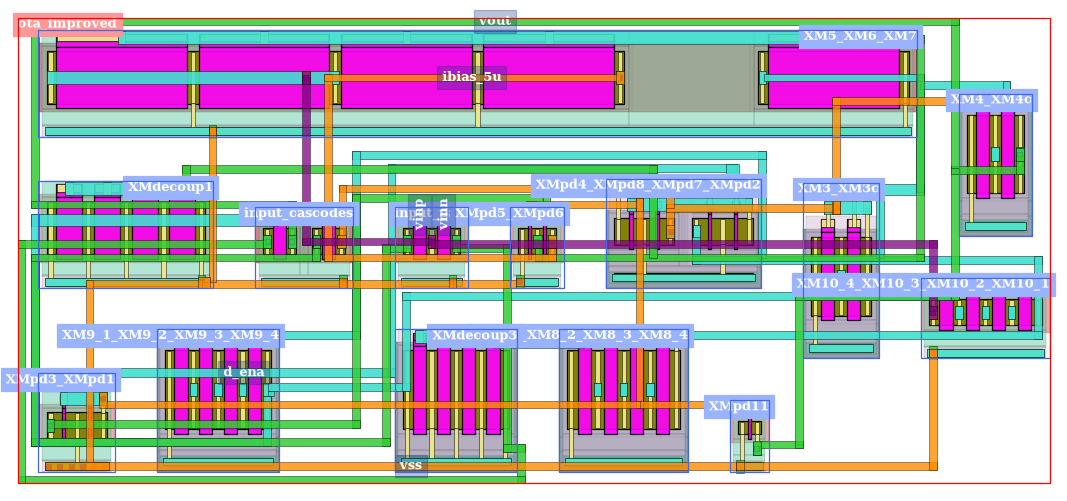
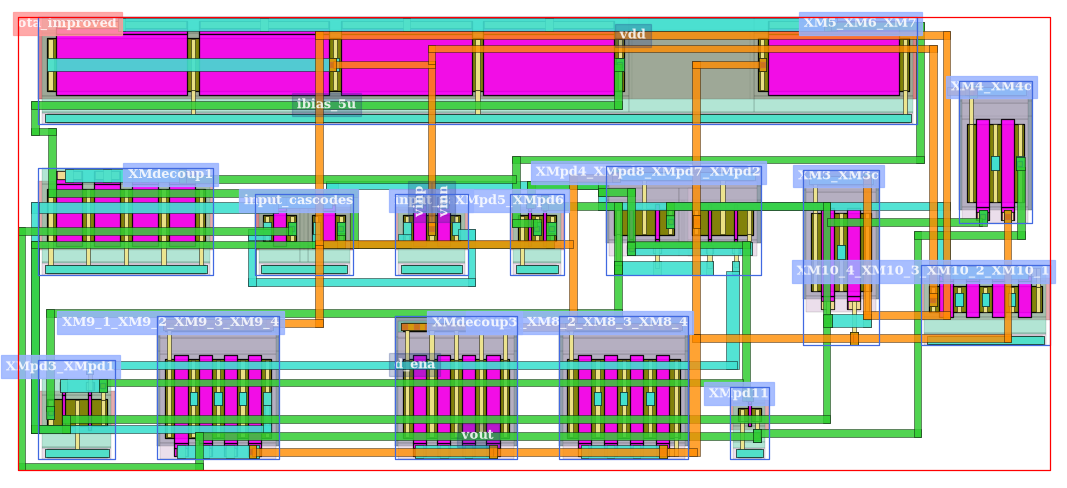
update 2.7: follow aicl_core 0785123
- gate_poly.location: per-type defaults (PMOS bottom, NMOS top), sides and per-device mappings
- Region spacing between cells (process configuration and placer options)
- MIM top-metal comb keys, repeated implant fill, resistor substrate netlisting
- Regenerated layout images affected by the new gate side

Claude-Session: https://claude.ai/code/session_01A2tZL7KsyVhwqdwPjtYj4u

diff --git a/docs/setup/process/constraints.md b/docs/setup/process/constraints.md
@@ -135,6 +135,15 @@ global:
   abut:
     base: {gate_poly: [[0.0, 0.0, 0.0]]}
     extension: {}
+  region_spacing:                      # between the layer regions of two different cells (placers)
+    base:                              # cells on different nets
+      oxide_diffusion: [[0.0, 0.0, 0.21]]
+      n_well: [[0.0, 0.0, 1.8]]
+      n_well|oxide_diffusion: [[0.0, 0.0, 0.31]]
+      ...
+    extension: {}
+    same_net:                          # regions on one net: they may also touch and merge
+      n_well: [[0.0, 0.0, 0.62]]
 local: {}
 ```
 
@@ -144,10 +153,11 @@ local: {}
 | `global.bulk.width` | The width of each layer of a body tap. |
 | `global.transistor` | `extend_implant_layer`, the `gate_poly` strap (`connector_height`, `extension_height`), and `latch_up.max_tie_distance`. |
 | `global.poly_resistor.bulk`, `global.mim_capacitor.bulk` | Where the body tap of a three-terminal resistor or capacitor goes: `side` (`auto`, `vertical` or `horizontal`) and `offset`, its gap to the device in µm. A cell can choose another side with `settings['bulk_tap']`. |
-| `global.mim_capacitor` | The smallest and largest via array on each plate (`min_/max_number_of_via_rows`, `..._columns`). `null` or `0` as a minimum means 1, and `null`, `0` or `.inf` as a maximum means as many as fit. `extend_bottom_cap_plates: true` joins the bottom plates of a unit matrix into one plate, in a process whose two plates are on different dielectric layers. `flush_connecting_wire: true` draws the wire that joins a row of plates as high as the plates, when the step it would leave at their edges is smaller than the plate metal's same-net gap (for a rule deck that flags such a step). Both are `false` by default, and the shipped templates leave them off. |
+| `global.mim_capacitor` | The smallest and largest via array on each plate (`min_/max_number_of_via_rows`, `..._columns`). `null` or `0` as a minimum means 1, and `null`, `0` or `.inf` as a maximum means as many as fit. `extend_bottom_cap_plates: true` joins the bottom plates of a unit matrix into one plate, in a process whose two plates are on different dielectric layers. `flush_connecting_wire: true` draws the wire that joins a row of plates as high as the plates, when the step it would leave at their edges is smaller than the plate metal's same-net gap (for a rule deck that flags such a step). Both are `false` by default, and the shipped templates leave them off. In a process whose MIM has a single cap metal, the top plate is contacted by a comb of metal strips: `min_number_of_top_metal_combs` and `max_number_of_top_metal_combs` limit how many strips cross it (`null`: at least one, as many as fit), and `top_metal_comb_distribution` spreads them with the outer strips at the plate edges (`edges`, the default) or with equal gaps (`even`). A cell can override all three in its `settings`. `ihpSG13G2` has two cap metals, so these keys have no effect there. |
 | `global.spacing` | Spacing rules between the layers the devices draw. A key is one layer (the spacing between its own shapes) or a pair `a|b` (in either order). `base` holds the base layers of the primitives, `extension` the pairs that involve an extension layer. Each value is a table `[[width, parallel run, spacing], ...]`: of the rows whose width and run the two shapes reach, the largest spacing applies. A layer or pair without an entry has no rule. |
-| `global.min_width` | The least width of a layer, for example of an implant. When two cells are exported next to each other and their implants end closer than `spacing`, the gap is filled, and each fill is at least `min_width` long. |
+| `global.min_width` | The least width of a layer, for example of an implant. When two cells are exported next to each other and their implants end closer than `spacing`, the gap is filled, and each fill is at least `min_width` long. The fills count as implant too: the check is repeated over the shapes and the fills so far until it finds no new gap, so a small pocket left between two fills is filled as well. |
 | `global.abut` | The abutment rule of a layer (for gate poly, the former `min_poly_abut_extension`), as a table like `spacing`. |
+| `global.region_spacing` | The spacing between the layer regions of two **different** cells, used by the `REFERENCE_PLACER` (see [Region spacing](#region-spacing) below). Optional. |
 | `local` | Values for devices of a certain size only (see below). |
 
 The three keys `min_poly_spacing`, `min_distance_poly_to_implant` and `min_poly_abut_extension` of older templates are now `global.spacing.base.gate_poly`, `global.spacing.base.gate_poly|<implant>` and `global.abut.base.gate_poly`.
@@ -175,6 +185,44 @@ A process can set more options under `global.transistor`. The shipped templates 
 | `gate_poly.contact` | `cap` | How a gate is contacted. `cap` draws a poly cap wide enough for a contact on every side. `inline` draws no cap: the gate runs straight on past the diffusion, and the contact sits on it, enclosed by `gate_poly.contact_end_enclosure` at its two ends. |
 | `source_drain_via_rows` | `shared` | `shared` puts the source and drain via landings on one row. `separate` gives the sources and the drains rows of their own, so the landings only have to clear the neighbouring finger's metal. |
 | `poly_contact_cut` | not set | A layer drawn around every contact on poly, with its `enclosure` (SKY130's `npc`). |
+
+### Region spacing
+
+A cell's *layer region* is the box around all the shapes it draws on one layer (its N-well, its diffusion, its gate poly, ...). `cell.get_layer_regions()` returns them as `{layer: LayerRegion}`, where each `LayerRegion` has a `boundbox` and a `width` (the narrow side of the layer's widest shape). An M-Cell's regions are those of its sub-cells and of its own wiring. The regions are measured where the shapes are now, so they follow every move, rotation and flip.
+
+`global.region_spacing` says how far apart the regions of two different cells must be. When the reference placer puts one cell next to another, it does not let their bounding boxes simply touch: it looks at the regions that face each other and keeps the largest gap that their rules ask for, less how far each region already lies inside its cell's box. Two PMOS cells next to each other, for example, need their N-wells 1.8 µm apart in `ihpSG13G2` when the wells are on different nets.
+
+| Key | Meaning |
+|:--|:--|
+| `base`, `extension` | The rules between cells on different nets, in the `spacing` table format: one layer (between its own regions) or a pair `a|b`. `base` holds base layers, `extension` pairs with an extension layer. |
+| `same_net` | The rules between two regions on one net. A layer listed here is *net-aware*: two of its regions on one net (the N-wells of two PMOS cells on the same supply) may also touch, and then merge into one region. |
+| `merge` | Layers whose regions may touch whatever their nets, because touching shapes of the layer are one shape (an implant). A gap between them still keeps the rule. |
+
+A metal that has no rule here takes its spacing table from `connectivity.yaml`. A pair with no rule needs no gap. The section is optional; without it, only the metals keep the cells apart, and the reference placer logs a warning. The `ihpSG13G2` and `sky130A` templates ship values from their rule decks: diffusion, gate poly, contact, N-well and deep N-well spacings (for example `NW.b1`, 1.8 µm, between N-wells on different nets in `ihpSG13G2`, and `NW.b`, 0.62 µm, on one net).
+
+The process context answers the rule for a pair with `region_spacing(layer_a, layer_b, width=0.0, parallel_run=0.0, same_net=False)`:
+
+```python
+# The copilot and the process context manager from the core package
+from aicl_core.bin.core.copilot import AiclCopilot
+from aicl_core.bin.core.contextmanager import ContextManager
+
+# Start the copilot for the process we lay out in
+copilot = AiclCopilot(process_name='ihpSG13G2')
+context = ContextManager.current
+
+# N-well to N-well of another cell: on different nets, and on one net
+print('n_well, different nets:', context.region_spacing('n_well', 'n_well'), 'um')
+print('n_well, same net:', context.region_spacing('n_well', 'n_well', same_net=True), 'um')
+
+# N-well of one cell to the diffusion of another
+print('n_well | oxide_diffusion:', context.region_spacing('n_well', 'oxide_diffusion'), 'um')
+
+# A metal without a region rule takes its connectivity spacing
+print('metal2:', context.region_spacing('metal2', 'metal2'), 'um')
+```
+
+How the placer uses the rules, and how to turn them off, is described in [Placement]({% link docs/tutorials/modules/place/index.md %}#region-spacing).
 
 ## connectivity.yaml
 

diff --git a/docs/setup/template/parameters.md b/docs/setup/template/parameters.md
@@ -128,9 +128,93 @@ Each entry of `devices`:
 | `gate_poly` | dict | see below | Gate connection. |
 | `power` | dict | see below | The power (bulk) wire. |
 
-`gate_poly` keys: `connect_gate_with_poly` (bool, join the gates in poly), `contacts_per_unit_gate_width` and `contacts_per_unit_finger_width` (int), `split_gate_poly_metal` (bool), `location` (`TRANSISTOR_GATE_CONNECTOR.top`, `.bottom` or `.both`), and `device_sides` (`{device_name: TRANSISTOR_GATE_CONNECTOR.top or .bottom}`: each device's gates are contacted on its own side only, so the row is mirrored top to bottom; a gate net may then join devices of one side only).
+`gate_poly` keys: `connect_gate_with_poly` (bool, join the gates in poly), `contacts_per_unit_gate_width` and `contacts_per_unit_finger_width` (int), `split_gate_poly_metal` (bool), `location` (the side of the gate contacts, see [Gate side](#gate-side)), and `device_sides` (`{device_name: TRANSISTOR_GATE_CONNECTOR.top or .bottom}`: each device's gates are contacted on its own side only, so the row is mirrored top to bottom; a gate net may then join devices of one side only).
 
 `power` keys: `stack_metals` (bool), `base_wire` (`layer`, `width`, `offset`, `number_of_via_rows`, `number_of_via_cols`), `base_to_top_wire` (`layer`, `number_of_vias`), and `top_wire` (`layer`, `width`, `track` as a `TOP_WIRE_TRACK`, `offset`).
+
+### Gate side (`gate_poly.location`)
+{: #gate-side }
+
+`settings['gate_poly']['location']` says on which side of the row the gates are contacted. It takes one of three forms:
+
+| Value | Meaning |
+|:--|:--|
+| not set, or `None` | The default: a PMOS has its gates at the **bottom**, an NMOS at the **top**. The two are mirror images, so in an inverter (PMOS above NMOS) the gates face each other and each cell's power rail faces its supply. |
+| a side | `TRANSISTOR_GATE_CONNECTOR.top`, `.bottom` or `.both`, or its name as a string: `'top'`, `'bottom'`, `'both'`. Strings are what a YAML defaults file can hold. |
+| a mapping | One side per kind of device: `{<class key>: side, 'pmos': side, 'nmos': side, 'default': side}`. A cell looks up its class key first (for example `'standard_pmos'` or `'low_threshold_nmos'`; the keys are listed in the process's `devices.yaml`), then its type (`'pmos'` or `'nmos'`), then `'default'`. When none of them is given, the cell takes the built-in default above. |
+
+Wires that do not name a `track` follow the gate side. With the gates at the bottom, a source/drain wire takes the upper half of the source/drain region (`SD_CENTER_UP`) and the power rail goes to the top; with the gates at the top, a source/drain wire takes `SD_CENTER_DOWN` and the rail goes to the bottom.
+
+The value can be set in each of the default layers (see [Defaults for every cell]({% link docs/tutorials/scells/configure/index.md %}#defaults-for-every-cell)): `cell_parameter_globals.yaml` (where it is `location: null`), the process's `cell_parameter_locals.yaml`, `SCellConfig` in your script, or the cell's own `settings`. The cell's own value wins. A misspelt side (`'up'`) or a mapping key that is neither a class key of the process nor `pmos`, `nmos` or `default` (`'pmoss'`) is refused with a `ParameterError`, so a typo never falls back to the default without notice.
+
+The example builds the same transistor as a PMOS and as an NMOS, first with the defaults, then with one side for all, then with a mapping:
+
+```python
+# The copilot and the transistor S-Cell engine from the core package
+from aicl_core.bin.core.copilot import AiclCopilot
+from aicl_core.bin.core.engines.transistor import TSCell
+
+# The user overrides of the S-Cell defaults
+from aicl_core.bin.config.global_config import SCellConfig
+
+# Option lists (enums) from the core package
+from aicl_core.bin.utilities.enums.deviceenums import TRANSISTOR_CLASS
+from aicl_core.bin.utilities.enums.terminals import TRANSISTOR_PIN_TYPE
+
+# Start the copilot for the process we lay out in
+copilot = AiclCopilot(process_name='ihpSG13G2')
+
+# One device M1 with 2 fingers; the parameters say nothing about the gate side
+parameters = {
+    'specifications': {'finger_width': 1.0, 'length': 0.5,
+                       'devices': [{'names': ['M1'], 'number_of_fingers': [2]}]},
+    'terminals': [{'name': 'g', 'pins': [['M1', TRANSISTOR_PIN_TYPE.GATE]]},
+                  {'name': 'd', 'pins': [['M1', TRANSISTOR_PIN_TYPE.DRAIN]]}],
+}
+
+
+def gate_side(device_class):
+    """Build a cell of this class and return the name of the gate side it was given."""
+    cell = TSCell(name='probe', parameters=parameters, device_class=device_class)
+    return cell.get_parameters()['settings']['gate_poly']['location'].name
+
+
+# 1. Nothing set: PMOS gates at the bottom, NMOS gates at the top
+print('default  PMOS:', gate_side(TRANSISTOR_CLASS.STANDARD_PMOS), '| NMOS:', gate_side(TRANSISTOR_CLASS.STANDARD_NMOS))
+
+# 2. One side for every transistor built from now on
+SCellConfig.set('tscell', 'settings.gate_poly.location', 'top')
+print('top      PMOS:', gate_side(TRANSISTOR_CLASS.STANDARD_PMOS), '| NMOS:', gate_side(TRANSISTOR_CLASS.STANDARD_NMOS))
+
+# 3. A mapping: every PMOS on top, any other transistor ('default') on both sides
+SCellConfig.set('tscell', 'settings.gate_poly.location', {'pmos': 'top', 'default': 'both'})
+print('mapping  PMOS:', gate_side(TRANSISTOR_CLASS.STANDARD_PMOS), '| NMOS:', gate_side(TRANSISTOR_CLASS.STANDARD_NMOS))
+
+# Drop the override again
+SCellConfig.reset()
+```
+
+It prints:
+
+```
+default  PMOS: bottom | NMOS: top
+top      PMOS: top | NMOS: top
+mapping  PMOS: top | NMOS: both
+```
+
+The same mapping in a defaults file (`cell_parameter_locals.yaml`) reads:
+
+```yaml
+GLOBAL_CONFIG:
+  SCELL:
+    tscell:
+      settings:
+        gate_poly:
+          location: {pmos: top, default: both}
+```
+
+{: .note }
+Earlier releases put the gates of every transistor at the top unless a cell said otherwise, and the netlist flow did the same. A PMOS now has its gates at the bottom by default, also in a netlist-built cell. To get the old layout back, set `location` to `'top'` (in `SCellConfig` or a defaults file) or give the cell `TRANSISTOR_GATE_CONNECTOR.top`.
 
 ### terminals
 
@@ -165,6 +249,7 @@ from aicl_core.bin.utilities.enums.terminals import TRANSISTOR_PIN_TYPE, BASE_WI
 copilot = AiclCopilot(process_name='ihpSG13G2')
 
 # A PMOS pair sharing its source, with a guard ring, end dummies and the gate contact on top
+# (a PMOS has it at the bottom by default)
 parameters = {
     'specifications': {
         'finger_width': 1.5,

diff --git a/docs/tutorials/modules/place/index.md b/docs/tutorials/modules/place/index.md
@@ -173,7 +173,87 @@ copilot.preview_layout(inverter)
 
 ![Inverter placed by the reference placer: the PMOS abuts the top of the NMOS, centred, 0.5 µm above it]({{site.baseurl}}/assets/images/mcell_inverter_reference_place_lay.png){: width="260"}
 
-`place_cell` returns a `PlaceResult` with the cell name and the run time. The reference placer has no options.
+`place_cell` returns a `PlaceResult` with the cell name and the run time.
+
+### Region spacing
+
+The reference placer keeps the process's *region spacing* between cells (see [Region spacing]({% link docs/setup/process/constraints.md %}#region-spacing)). An abutment does not end where the two bounding boxes touch, but where the layers that face each other are far enough apart: for example the N-wells of two PMOS cells, or an N-well and the diffusion of an NMOS. A cell slid off another one keeps the same gap. The `offset` of an entry still counts: the placer only adds what the rules need beyond it. In the inverter above, the PMOS still sits 0.5 µm above the NMOS, because that offset already covers the rules.
+
+Two options change this. Pass them with `options=` (or `placer_options=` in `place_and_route_cell`):
+
+| Option | Default | Meaning |
+|:--|:--|:--|
+| `region_spacing` | `True` | Keep the region spacing. `False` abuts the cells box to box, as in earlier releases. |
+| `well_nets` | `'netlist'` | How wells on one net (the cells' bulk nets) are spaced. `'netlist'`: they may touch and merge, or keep the same-net spacing; this is right for a layout that will be routed, since routing ties the wells. `'unrouted'`: they may touch and merge, else they keep the different-net spacing, for a placement you check with DRC before routing (DRC sees separate wells as separate nets). |
+
+The next example places two PMOS cells side by side, once with their bulks on different nets and once on one net:
+
+```python
+# The copilot and the cell engines (M-Cell and transistor S-Cell) from the core package
+from aicl_core.bin.core.copilot import AiclCopilot
+from aicl_core.bin.core.engines.mcell import MCell
+from aicl_core.bin.core.engines.transistor import TSCell
+
+# Option lists (enums) from the core package
+from aicl_core.bin.utilities.enums.deviceenums import TRANSISTOR_CLASS
+from aicl_core.bin.utilities.enums.primitives import CELL_ABUT_SIDE, CELL_ABUT_ALIGN
+from aicl_core.bin.utilities.enums.terminals import TRANSISTOR_PIN_TYPE
+
+# Coordinates (x, y) in um, and the helper that runs placers and routers
+from aicl_core.bin.utilities.geometryutils import Coord
+from aicl_core.bin.utilities.helpers.place_and_route import PlaceAndRouteManager
+
+# Start the copilot for the process we lay out in
+copilot = AiclCopilot(process_name='ihpSG13G2')
+
+
+def place_pmos_pair(bulk_nets, region_spacing=True):
+    """Place two PMOS cells p1 and p2 side by side and return the gap between their boxes."""
+    cells = []
+    for name in ('p1', 'p2'):
+        parameters = {
+            'specifications': {'finger_width': 2.0, 'length': 0.5,
+                               'devices': [{'names': ['M1'], 'number_of_fingers': [2]}]},
+            'terminals': [{'name': 'g', 'pins': [['M1', TRANSISTOR_PIN_TYPE.GATE]]},
+                          {'name': 'd', 'pins': [['M1', TRANSISTOR_PIN_TYPE.DRAIN]]},
+                          {'name': 'vdd', 'pins': [['M1', TRANSISTOR_PIN_TYPE.SOURCE, TRANSISTOR_PIN_TYPE.BULK]]}],
+        }
+        cells.append(TSCell(name=name, parameters=parameters, device_class=TRANSISTOR_CLASS.STANDARD_PMOS))
+
+    pair = MCell(name='pmos_pair')
+    pair.add_cells(cells)
+
+    # bulk_nets gives the module net of each cell's vdd terminal (and so of its N-well)
+    nets = {}
+    for cell_name, net in zip(('p1', 'p2'), bulk_nets):
+        nets.setdefault(net, {})[cell_name] = {'terminal': 'vdd'}
+    pair.set_terminal_parameters([{'name': net, 'components': components} for net, components in nets.items()])
+
+    # p1 at the origin, p2 against its right side, no offset
+    placer_constraints = [
+        {'cell_name': 'p1', 'use_reference': False, 'position': Coord(0, 0), 'offset': Coord(0, 0)},
+        {'cell_name': 'p2', 'use_reference': True, 'reference_cell_name': 'p1',
+         'reference_abut_side': CELL_ABUT_SIDE.right, 'reference_abut_align': CELL_ABUT_ALIGN.middle,
+         'position': Coord(0, 0), 'offset': Coord(0, 0)},
+    ]
+    PlaceAndRouteManager.place_cell(pair, 'REFERENCE_PLACER', constraints=placer_constraints,
+                                    options={'region_spacing': region_spacing})
+    return round(cells[1].get_boundbox().start_x_coord - cells[0].get_boundbox().end_x_coord, 3)
+
+
+# Wells on two different supplies: they must be 1.8 um apart (NW.b1)
+print('different nets:', place_pmos_pair(['vdd_a', 'vdd_b']), 'um')
+
+# Wells on one supply: they may touch and merge into one well
+print('one net:', place_pmos_pair(['vdd', 'vdd']), 'um')
+
+# Region spacing turned off: the boxes touch whatever the nets
+print('option off:', place_pmos_pair(['vdd_a', 'vdd_b'], region_spacing=False), 'um')
+```
+
+It prints `different nets: 1.8 um`, `one net: 0.0 um` and `option off: 0.0 um`.
+
+`CUSTOM_RPS_PLACER` does not read the region spacing; it keeps the cells apart by its `padding` only.
 
 ## Custom RPS placer
 

diff --git a/docs/api/pnr.md b/docs/api/pnr.md
@@ -24,7 +24,7 @@ Placers and routers are registered by name. The names are exact strings.
 | Name | Class | Kind | Constraints |
 |:--|:--|:--|:--|
 | `CUSTOM_RPS_PLACER` | `CustomRPS` | Placer. It packs rectangles with a sequence pair, optimised by simulated annealing. This is the default placer. | `{'padding': float | dict | list | tuple, 'width_limit': float, 'height_limit': float}`. Sub-cells inherit them. |
-| `REFERENCE_PLACER` | `ReferencePlacer` | Placer. It puts each cell at a fixed position, or against an already-placed reference cell, in the order given. | A list of entries `{'cell_name', 'position': Coord, 'offset': Coord, 'use_reference': bool, 'reference_cell_name': str, 'reference_abut_side': CELL_ABUT_SIDE, 'reference_abut_align': CELL_ABUT_ALIGN}`, or `{cell_name: {'placer_constraints': [...], 'sub_modules': {...}}}` for a hierarchy. `reference_cell_name` may join several cells with `|`. Cells that no entry names are placed at the origin. |
+| `REFERENCE_PLACER` | `ReferencePlacer` | Placer. It puts each cell at a fixed position, or against an already-placed reference cell, in the order given. | A list of entries `{'cell_name', 'position': Coord, 'offset': Coord, 'use_reference': bool, 'reference_cell_name': str, 'reference_abut_side': CELL_ABUT_SIDE, 'reference_abut_align': CELL_ABUT_ALIGN}`, or `{cell_name: {'placer_constraints': [...], 'sub_modules': {...}}}` for a hierarchy. `reference_cell_name` may join several cells with `|`. Cells that no entry names are placed at the origin. An abutment keeps the process's region spacing (`configuration.yaml` `global.region_spacing`). |
 | `RMST_ROUTER` | `RectilinearMstMCellRouter` | Router. A rectilinear minimum spanning tree router. This is the default router. | `{'top_wire': {'min_width': float, 'min_number_of_vias': int, 'number_of_vias': int}}` |
 | `ALIGN_ROUTER` | `AlignMCellRouter` | Router. A port of ALIGN's router: tile-based global routing, then A* track routing per net. Symmetry is soft. | `{'min_width', 'min_layer', 'max_layer', 'nets': {name: {'min_layer', 'max_layer', 'multi_connection', 'do_not_route'}}, 'symmetry': {'net_pairs', 'axis'}, 'sub_cells': {name: {...}}}` |
 | `MAGICAL_ROUTER` | `MagicalMCellRouter` | Router. A port of MAGICAL's anaroute: grid A* with negotiated rip-up and reroute. Symmetry is mirrored. | `{'min_width', 'power_min_width', 'nets': {name: {'min_width', 'cuts': [rows, cols]}}, 'symmetry': {'net_pairs', 'self_nets', 'axis'}, 'sub_cells': {name: {...}}}` |
@@ -34,7 +34,7 @@ Placers and routers are registered by name. The names are exact strings.
 | Engine | Options (default) |
 |:--|:--|
 | `CUSTOM_RPS_PLACER` | `simanneal_minutes` (0.1), `simanneal_steps` (100), `show_progress` (False), `seed` (111), `place` (True; with False it only solves), `visualize` (False) |
-| `REFERENCE_PLACER` | none |
+| `REFERENCE_PLACER` | `region_spacing` (True: keep the process's region spacing between the cells' facing layer regions, see [Region spacing]({% link docs/tutorials/modules/place/index.md %}#region-spacing)), `well_nets` (`'netlist'`, or `'unrouted'`) |
 | `RMST_ROUTER` | none |
 | `ALIGN_ROUTER` | `tile_size` (0 = automatic), `candidates` (5), `via_cost` (0.36), `sym_factor` (8.0), `ilp_node_limit` (200000), `max_explore` (0 = unlimited) |
 | `MAGICAL_ROUTER` | `grid_step` (0 = the Metal1 pitch), `signal_top_layer` (5), `power_top_layer` (6), `nrr_iterations` (15), `nrr_retry_iterations` (20), `symmetry_fail_limit` (5), `detect_symmetry` (True) |

diff --git a/docs/tutorials/scells/configure/index.md b/docs/tutorials/scells/configure/index.md
@@ -66,18 +66,18 @@ Dummy devices are tied to the power rail of the cell.
 
 `gate_poly` controls how the gate fingers are strapped:
 
-- `location` is a `TRANSISTOR_GATE_CONNECTOR`: `top`, `bottom` or `both`.
+- `location` is the side of the gate contacts: `TRANSISTOR_GATE_CONNECTOR.top`, `.bottom` or `.both` (or the names `'top'`, `'bottom'`, `'both'`). When it is not set, a PMOS has its gates at the bottom and an NMOS at the top. It can also be a mapping with one side per device type or class, for example `{'pmos': 'top', 'default': 'both'}`; see [Gate side]({% link docs/setup/template/parameters.md %}#gate-side) for the lookup order and a tested example.
 - `connect_gate_with_poly` joins the fingers with a poly strap instead of metal.
 - `contacts_per_unit_gate_width` and `contacts_per_unit_finger_width` set the contact density.
 - `split_gate_poly_metal` splits the gate metal between fingers.
 
 `power` configures the rail that collects the pins no terminal claims (`VSS` for NMOS, `VDD` for PMOS):
 
-- `base_wire` sets the horizontal rail: `layer`, `width`, `offset`, `number_of_via_rows` and `number_of_via_cols`.
+- `base_wire` sets the horizontal rail: `layer`, `width`, `offset`, `number_of_via_rows` and `number_of_via_cols`. Without a `track`, the rail goes to the side away from the gates (top for a PMOS, bottom for an NMOS, by default). A rail asked for over the source/drain region (an `SD_...` track) that has no room there moves to the side away from the gates, with a warning.
 - `stack_metals` stacks the rail on the metals above it.
 - `top_wire` is the vertical wire used when the cell is routed inside a module.
 
-The next example contacts the gates at the bottom and widens the power rail:
+The next example writes out the gate side of a PMOS (the bottom, which is also its default) and widens the power rail:
 
 ```python
 # The copilot and the transistor S-Cell engine from the core package
@@ -101,7 +101,7 @@ parameters = {
     },
     'composer': {'composer_type': TRANSISTOR_COMPOSER.LINEAR},
     'settings': {
-        # Contact the gates at the bottom instead of the top
+        # Contact the gates at the bottom (a PMOS's default, written out here)
         'gate_poly': {'location': TRANSISTOR_GATE_CONNECTOR.bottom},
         # A wider metal1 power rail
         'power': {'base_wire': {'layer': 'metal1', 'width': 0.4}},
@@ -126,7 +126,7 @@ copilot.preview_layout(pmos_scell, enable_culling=False)
 | `guard_ring` | `{'enable': False, 'offset': 0.0}` | Guard ring around the cell |
 | `number_of_dummy_fingers` | `{'start': 0, 'end': 0}` | Dummy fingers at each end of a row |
 | `dummy_rows` | `{'top': {'enable': False}, 'bottom': {'enable': False}}` | Dummy rows: `enable`, `offset`, `height` |
-| `gate_poly` | `location: top`, 3 / 5 contacts per unit width | Gate strap, see above |
+| `gate_poly` | `location` not set (PMOS bottom, NMOS top), 3 / 5 contacts per unit width | Gate strap, see above |
 | `default_number_of_vias` | 1 | Vias per connection when a wire does not say |
 | `multi_row_gate_contacts` | `False` | More than one row of gate contacts |
 | `route_over_cell` | `[True, METAL_LAYER_SELECTION.ALL, [...]]` | Metals a parent router may use over the cell |

diff --git a/docs/tutorials/generate.md b/docs/tutorials/generate.md
@@ -15,7 +15,7 @@ nav_order: 5
 
 The toolbar also has a **Pan** tool (drag with the left mouse button to move a zoomed view, drag with the right one to zoom) and a **Grid** button. The grid lies on the process's layout resolution and shows the layout coordinates along the axes. The label slider fades every label, including the cell names and the pin labels, so you can see the geometry behind them.
 
-The viewer is a Qt window. The script continues when the window is closed.
+The viewer is a Qt window. The script continues when the window is closed. Under Wayland, Qt prints a line about its input method (`qt.qpa.wayland.textinput`) on every focus change; the viewer turns that category off, so it does not bury your script's output. Any rules you set yourself in `QT_LOGGING_RULES` are kept.
 
 To use the display data without opening a window, call `get_layout_primitives(cell)`. It returns a dictionary with the fields `polygons`, `labels`, `layer_maps`, the canvas size and its origin.
 
@@ -93,6 +93,8 @@ M-Cells are generated the same way, flattened into one top cell.
 
 - `style='spice'` (the default) writes a SPICE netlist in the dialect that the process's LVS tool reads.
 - `style='cdl'` writes an auCdl netlist (`.SUBCKT`, `*.PININFO`) for commercial LVS tools.
+
+A two-terminal resistor (`STANDARD_N2T`, `STANDARD_P2T`) has no `BULK` pin, but its device model has a third, substrate terminal. The substrate is one body, so the netlist puts that terminal on the net the substrate is tied to: the net most of the cell's substrate ties reach (the bulk of the standard NMOS devices, or the tap of a passive device in a process with P taps, such as `ihpSG13G2`). That is usually `vss`, which is what the LVS extractor finds too. When nothing in the cell ties the substrate, the terminal is on an internal net called `__substrate`. (Earlier releases gave each such terminal a net of its own, `<device>__bulk`, which LVS reported as a mismatch.)
 
 The file is written to `$AICL_COP_SCH_DIR/<process>/<library_name>/<view_name>.spice` (`.cdl` for CDL), and the method returns its path. `AICL_COP_SCH_DIR` is `<project_directory>/schematics`, or `~/.aicl_copilot/schematics` without a project directory. Pass `path=` to write somewhere else.
 

diff --git a/docs/tutorials/netlist/index.md b/docs/tutorials/netlist/index.md
@@ -60,7 +60,7 @@ A *device group* is a set of devices built as one S-Cell. `create_circuit_device
 
 `composer_type` defaults to `TRANSISTOR_COMPOSER.LINEAR`, which is the composer core provides (see [Layout Composer]({% link docs/tutorials/scells/composer/index.md %})). The devices of a group are placed side by side in one S-Cell, sharing diffusion where their nets allow. This is how matched devices are kept together in core.
 
-The netlist flow sets only what it must decide for each cell: whether wires may run over it, the side of the gate contacts, and the power rail of each device type. Every other setting (guard ring, dummy fingers and rows, vias, ...) comes from the same defaults as a hand-built cell, so you can change them for every cell of the netlist with `SCellConfig` before you build. For example, `SCellConfig.TSCELL.settings.guard_ring.enable = True` gives every transistor cell a guard ring (see [Defaults for every cell]({% link docs/tutorials/scells/configure/index.md %}#defaults-for-every-cell)).
+The netlist flow sets only what it must decide for each cell: whether wires may run over it, and the layer and vias of its power rail. Every other setting comes from the same defaults as a hand-built cell: the guard ring, dummy fingers and rows, vias, and also the side of the gate contacts (a PMOS at the bottom, an NMOS at the top, unless you set [`gate_poly.location`]({% link docs/setup/template/parameters.md %}#gate-side)) and the tracks of the signal and power wires, which follow that side. You can change any of them for every cell of the netlist with `SCellConfig` before you build. For example, `SCellConfig.TSCELL.settings.guard_ring.enable = True` gives every transistor cell a guard ring (see [Defaults for every cell]({% link docs/tutorials/scells/configure/index.md %}#defaults-for-every-cell)).
 
 For a hierarchical netlist, each sub-circuit instance has its own grouper. `grouper.get_sub_circuit('x2')` returns it, and `grouper.sub_circuits` lists them all.
 

diff --git a/docs/generators/modules/ota_improved/index.md b/docs/generators/modules/ota_improved/index.md
@@ -92,7 +92,7 @@ print('netlist:', netlist_path)
 ## Results
 
 {: .warning }
-This recipe does **not** give a clean layout in the current release. With this seed the RMST router cannot finish the `vdd` net (`route_result.failed` is `['vdd']`), so LVS reports a mismatch: the layout has no `VDD` pin, and the supply nets of the cells are not joined. KLayout DRC also reports a few violations: minimum width on routed metal (rule `M2.a`) and an N-well spacing (`NW.b1`). Check `route_result.failed`, `lvs.report()`, `drc.report()` and the report database under `drc.artifacts.directory` before using the layout. A different `seed`, a larger `padding` or another router (`'MAGICAL_ROUTER'`, `'ALIGN_ROUTER'`) changes the result.
+This recipe does **not** give a clean layout in the current release. With this seed the RMST router cannot finish the `vss` net (`route_result.failed` is `['vss']`), so the supply nets of the cells are not joined and LVS reports a mismatch (the IHP deck's top-level port check fails). KLayout DRC is clean with this seed. Check `route_result.failed`, `lvs.report()`, `drc.report()` and the report database under `drc.artifacts.directory` before using the layout. A different `seed`, a larger `padding` or another router (`'MAGICAL_ROUTER'`, `'ALIGN_ROUTER'`) changes the result.
 
 ## Variations
 

diff --git a/docs/api/enums.md b/docs/api/enums.md
@@ -51,7 +51,7 @@ Cell parameters, constraints and results use these enums. The member names are e
 | `RESISTOR_COMPOSER` | `LINEAR`, `INTER_DIGITATE` | RSCell `composer['composer_type']` |
 | `CAPACITOR_COMPOSER` | `LINEAR` | CSCell `composer['composer_type']` |
 | `DEVICE_SEPARATOR` | `DUMMY`, `IMPLANT` | TSCell `composer['device_separator']` |
-| `TRANSISTOR_GATE_CONNECTOR` | `top`, `both`, `bottom` | TSCell `settings['gate_poly']['location']`, and `top` / `bottom` in `settings['gate_poly']['device_sides']` |
+| `TRANSISTOR_GATE_CONNECTOR` | `top`, `both`, `bottom` | TSCell `settings['gate_poly']['location']` (also as the strings `'top'`, `'both'`, `'bottom'`, or a per-device mapping; unset: PMOS `bottom`, NMOS `top`, see [Gate side]({% link docs/setup/template/parameters.md %}#gate-side)), and `top` / `bottom` in `settings['gate_poly']['device_sides']` |
 | `CELL_ABUT_SIDE` | `left`, `right`, `top`, `bottom` | `REFERENCE_PLACER` `reference_abut_side` |
 | `CELL_ABUT_ALIGN` | `lower`, `middle`, `upper` | `REFERENCE_PLACER` `reference_abut_align` |
 | `CELL_ORIENTATION` | `R0`, `R90`, `R0_MX`, `R0_MY`, `R0_MX_MY`, `R90_MX`, `R90_MY`, `R90_MX_MY` | `cell.set_orientation(...)`, `cell.get_orientation()` |

diff --git a/docs/api/cells.md b/docs/api/cells.md
@@ -33,6 +33,7 @@ Cell
 | `get_primitive_type()` | `PRIMITIVE_TYPE.SCELL` or `MCELL`. |
 | `get_boundbox()` | The cell's `Boundbox` (`start_x_coord`, `start_y_coord`, `end_x_coord`, `end_y_coord`, `width`, `height`). |
 | `get_position()` | Lower-left corner, as a `Coord`. |
+| `get_layer_regions()` | `{layer: LayerRegion}`: the box around all the cell's shapes on each layer it draws (`boundbox`), and the narrow side of the layer's widest shape (`width`). An M-Cell's are its sub-cells' and its own wiring's. Measured where the shapes are now. The reference placer keeps the process's [region spacing]({% link docs/setup/process/constraints.md %}#region-spacing) between them. |
 | `translate(new_pos: Coord)` | Move the cell so that its lower-left corner is at `new_pos`. |
 | `rotate(pivot: Coord | None = None)` | Rotate a quarter turn (R90). |
 | `flip_horizontal(pivot=None)`, `flip_vertical(pivot=None)` | Mirror in the x axis (MX) or in the y axis (MY). |

diff --git a/docs/tutorials/scells/terminals/index.md b/docs/tutorials/scells/terminals/index.md
@@ -43,6 +43,8 @@ Pins are `TRANSISTOR_PIN_TYPE.GATE`, `DRAIN`, `SOURCE` or `BULK`. Resistors use 
 
 Values that are left out come from the process defaults. A width below the layer minimum is raised to it.
 
+A `base_wire` without a `track` follows the side of the gate contacts ([`gate_poly.location`]({% link docs/setup/template/parameters.md %}#gate-side)): a gate net runs on the gate side, a source/drain net over the half of the source/drain region away from the gates, and the power rail on the far side. With the defaults, an NMOS (gates at the top) gets `GATE_TOP`, `SD_CENTER_DOWN` and a `GATE_BOTTOM` rail, and a PMOS (gates at the bottom) gets `GATE_BOTTOM`, `SD_CENTER_UP` and a `GATE_TOP` rail.
+
 ## Example
 
 The differential pair below names every net and gives the source pins a common `v_tail` net. The two bulk pins get an explicit `VSS` terminal, typed as `GROUND`.
